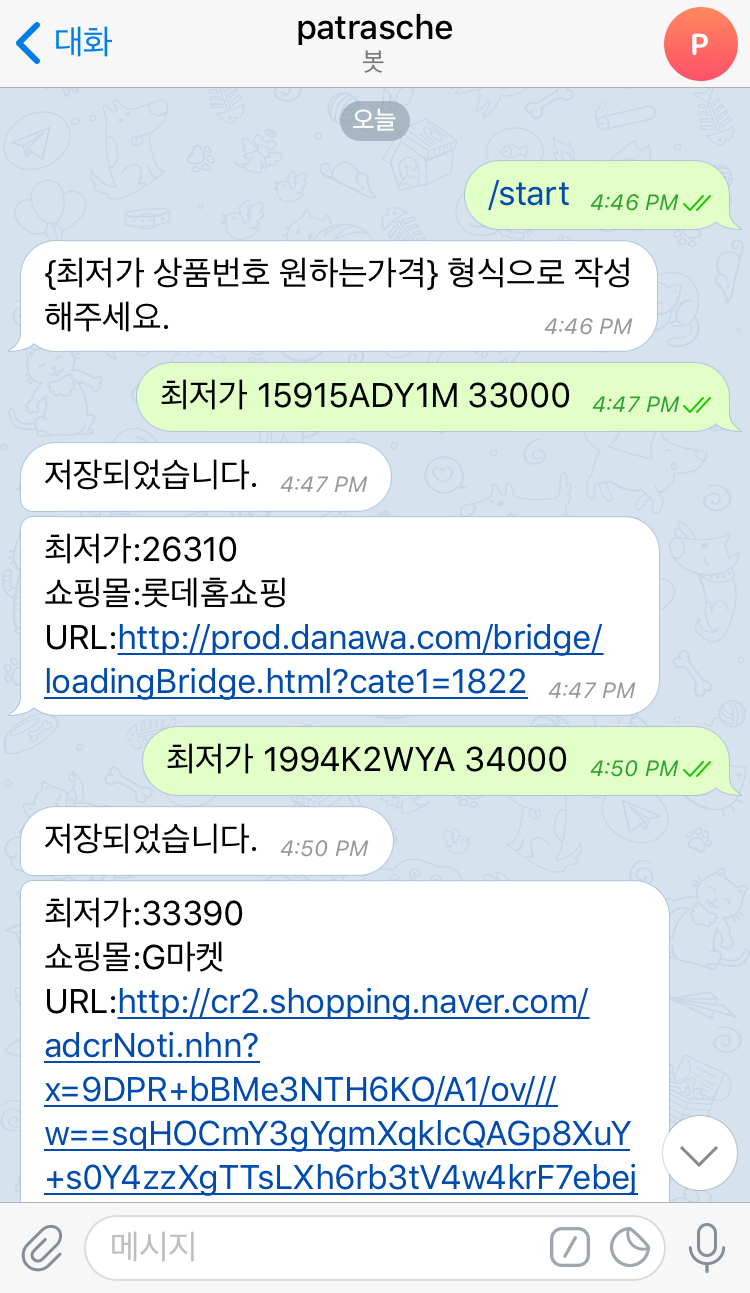
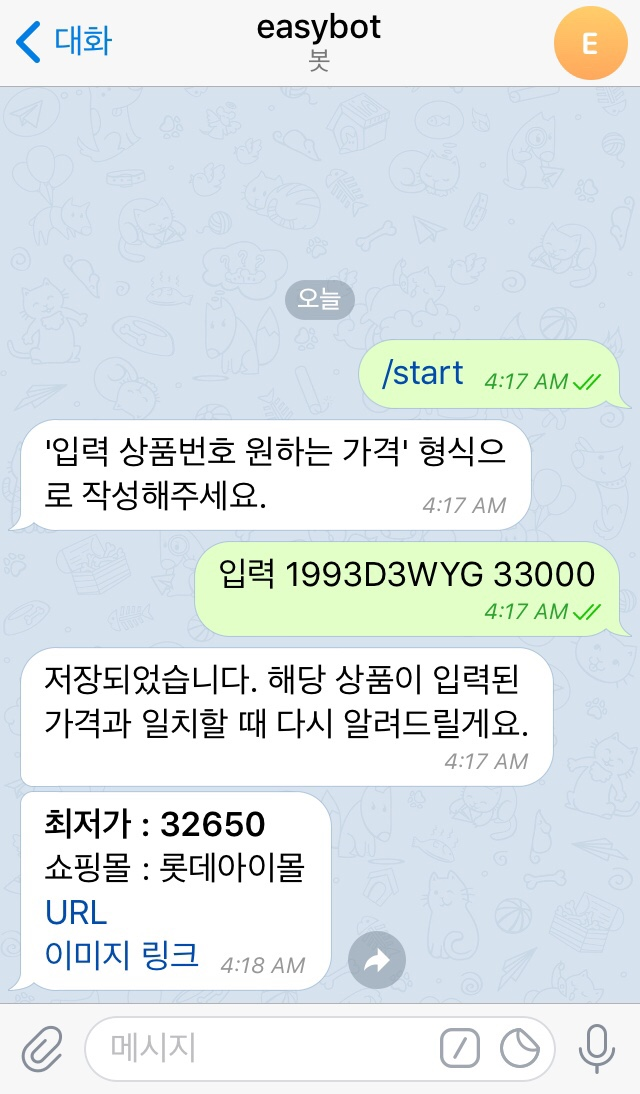
jiweon fianl

diff --git a/pages/templates/pages/telegram.html b/pages/templates/pages/telegram.html
@@ -40,7 +40,7 @@
     <br>
     <p style="font-family: nanums-L; color:#6195ff; font-size:40px; margin-left:60px;">@easy1_bot</p>
     <p style="font-family: nanums-M; margin-left:60px; font-size:16px;">1. 텔레그램 접속 후 @easy1_bot 을 검색해 대화창을 엽니다.</p>
-    <p style="font-family: nanums-M; margin-left:60px; font-size:16px;">2. 최저가 상품번호 원하는 가격 순으로 입력합니다.</p>
+    <p style="font-family: nanums-M; margin-left:60px; font-size:16px;">2. 입력 상품번호 원하는 가격 순으로 입력합니다.</p>
     <p style="font-family: nanums-M; margin-left:60px; font-size:16px;">3. 해당 상품이 원하는 가격일 때 알림을 받습니다.</p>
 </div>
     <image src="{% static 'pages/img/telegram_bot.jpg' %}" width="300" height="440" style="margin-left:930px; margin-top:-400px"></image>

diff --git a/telegram.py b/telegram.py
@@ -4,8 +4,7 @@ from urllib.request import urlopen
 from bs4 import BeautifulSoup
 import requests
 
-# token = '636670076:AAFgJ7kM8IIqbZVQnQeIUdw2UkX3H5gWjZs'
-token = '832159632:AAFnkI-gVxrV1TBNZEq6gLDYG3jvclW2O0k'
+token = ''
 api_url = f'https://api.telegram.org/bot{token}'
 def telegram_crontab():
 
@@ -304,11 +303,11 @@ def telegram_crontab():
 
                         if (mylist.index(minprice) == 0):
                             t_price = f'''
-    <b>최저가 : {naver_total_price}</b>
-    쇼핑몰 : {naver_total_mall}
-    <a href="{naver_total_url}">URL</a>
-    <a href="{naver_total_image}">이미지 링크</a>
-    '''
+<b>최저가 : {naver_total_price}</b>
+쇼핑몰 : {naver_total_mall}
+<a href="{naver_total_url}">URL</a>
+<a href="{naver_total_image}">이미지 링크</a>
+'''
                             # t_price = rf'<a href="{naver_total_url}">쇼핑몰링크</a>'
                             params = {
                                 'chat_id': chat_id,
@@ -321,11 +320,11 @@ def telegram_crontab():
 
                         elif (mylist.index(minprice) == 1):
                             t_price = f'''
-    <b>최저가 : {enuri_total_price}</b>
-    쇼핑몰 : {enuri_total_mall}
-    <a href="{naver_total_url}">URL</a>
-    <a href="{naver_total_image}">이미지 링크</a>
-    '''
+<b>최저가 : {enuri_total_price}</b>
+쇼핑몰 : {enuri_total_mall}
+<a href="{naver_total_url}">URL</a>
+<a href="{naver_total_image}">이미지 링크</a>
+'''
                             # t_price = rf'<a href="{naver_total_url}">쇼핑몰링크</a>'
                             params = {
                                 'chat_id': chat_id,
@@ -337,11 +336,11 @@ def telegram_crontab():
                             telegramobj.delete()
                         else:
                             t_price = f'''
-    <b>최저가 : {naver_total_price}</b>
-    쇼핑몰 : {naver_total_mall}
-    <a href="{naver_total_url}">URL</a>
-    <a href="{naver_total_image}">이미지 링크</a>
-    '''
+<b>최저가 : {naver_total_price}</b>
+쇼핑몰 : {naver_total_mall}
+<a href="{naver_total_url}">URL</a>
+<a href="{naver_total_image}">이미지 링크</a>
+'''
                             # t_price = rf'<a href="{naver_total_url}">쇼핑몰링크</a>'
                             params = {
                                 'chat_id': chat_id,
@@ -354,9 +353,9 @@ def telegram_crontab():
                     else:
                         t_price = "일치하는 가격이 없습니다. 다시 알림 드릴게요."
                         requests.get(f'{api_url}/sendMessage?chat_id={chat_id}&text={t_price}')
-                    print(tprice)
+                # print(tprice)
         else:
-           pass
+            pass
 
 if __name__ == '__main__':
     path = os.path.dirname(__file__)

diff --git a/pages/views.py b/pages/views.py
@@ -354,8 +354,7 @@ def telegram(request):
     return render(request, 'pages/telegram.html')
 
 
-# token = '636670076:AAFgJ7kM8IIqbZVQnQeIUdw2UkX3H5gWjZs'
-token = '832159632:AAFnkI-gVxrV1TBNZEq6gLDYG3jvclW2O0k'
+token=''
 api_url = f'https://api.telegram.org/bot{token}'
 @csrf_exempt
 @require_http_methods(['GET', 'POST'])

diff --git a/set_webhook.py b/set_webhook.py
@@ -1,5 +1,4 @@
-# token = '636670076:AAFgJ7kM8IIqbZVQnQeIUdw2UkX3H5gWjZs'
-token = '832159632:AAFnkI-gVxrV1TBNZEq6gLDYG3jvclW2O0k'
+token=''
 api_url = f'https://api.telegram.org/bot{token}'
 webhook_url = input()
 print(f'{api_url}/setWebhook?url={webhook_url}/pages/telegram_bot/')
